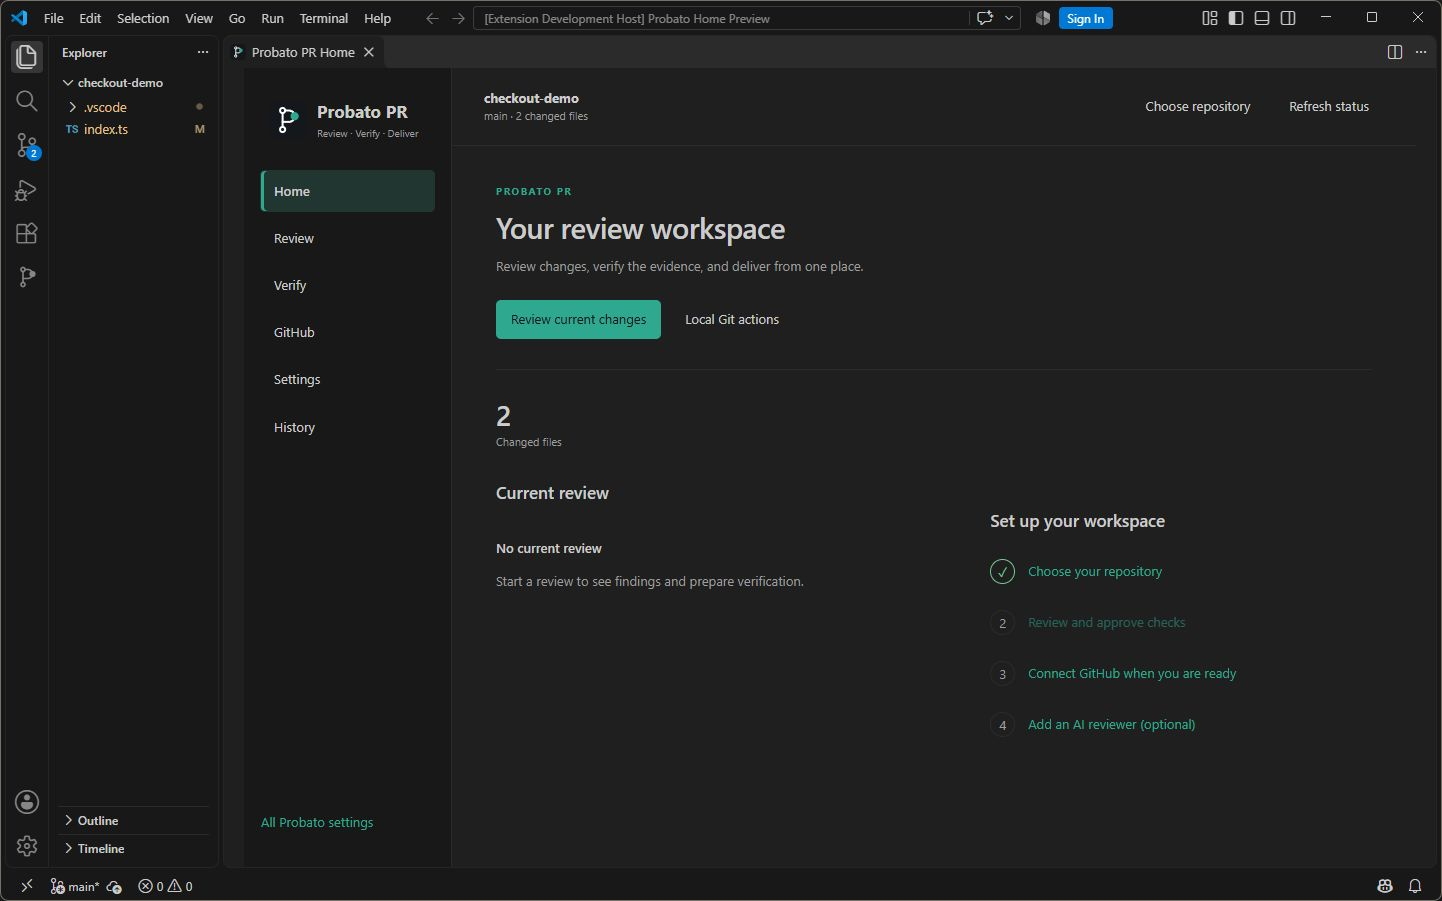
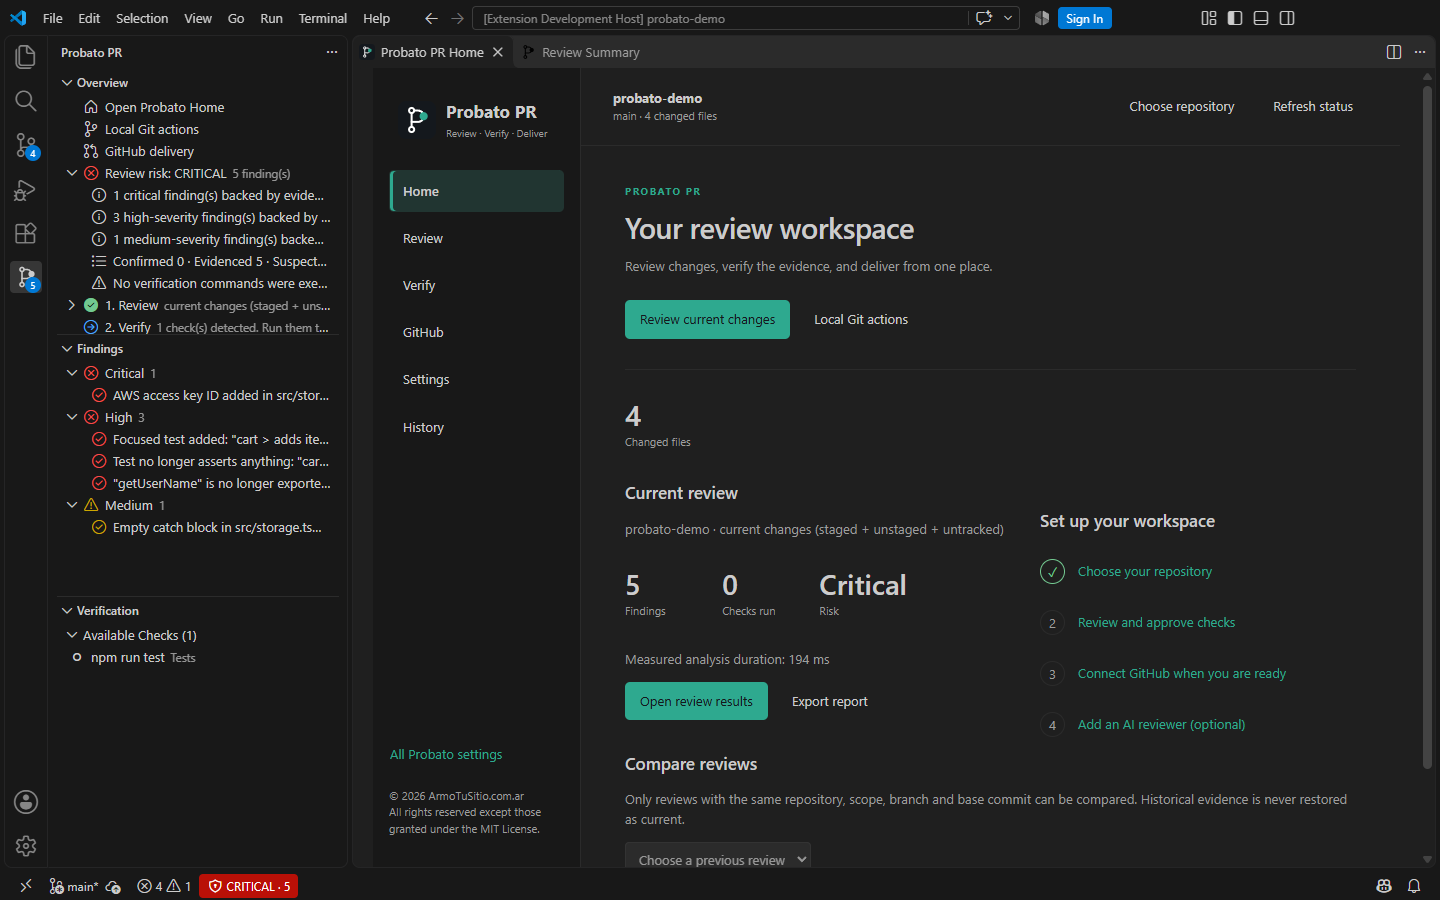
docs(readme): regenerate screenshots automatically from the real extension
Add `pnpm run screenshots`: launches VS Code (Extension Development Host) on the
demo repository, runs a review and captures Home, Review Summary and Settings in
dark and light themes through the DevTools protocol into media/screenshots/.
`probatoPR.openHome` accepts an optional allowlisted section for automation.

diff --git a/test/integration/screenshots.ts b/test/integration/screenshots.ts
@@ -1,0 +1,155 @@
+// Regenerates the README screenshots from the real extension: launches VS Code (Extension Development Host) on the
+// demonstration repository from scripts/create-demo-repo.mjs, lets screenshot-driver.ts put the extension into
+// each state, and captures the workbench through the Chromium DevTools protocol into media/screenshots/.
+// Nothing is published and no account is connected. Usage: pnpm run screenshots
+import { execFileSync } from 'node:child_process';
+import { existsSync, mkdirSync, mkdtempSync, readdirSync, rmSync, writeFileSync } from 'node:fs';
+import { createServer } from 'node:net';
+import { tmpdir } from 'node:os';
+import * as path from 'node:path';
+import { runTests } from '@vscode/test-electron';
+
+const ROOT = path.resolve(__dirname, '../..');
+const OUTPUT = path.join(ROOT, 'media', 'screenshots');
+const VIEWPORT = { width: 1440, height: 900, deviceScaleFactor: 1, mobile: false } as const;
+
+const delay = (ms: number): Promise<void> => new Promise((resolve) => { setTimeout(resolve, ms); });
+
+function freePort(): Promise<number> {
+  return new Promise((resolve, reject) => {
+    const server = createServer();
+    server.once('error', reject);
+    server.listen(0, '127.0.0.1', () => {
+      const address = server.address();
+      server.close(() => { if (address && typeof address === 'object') resolve(address.port); else reject(new Error('no port assigned')); });
+    });
+  });
+}
+
+/** Minimal DevTools protocol client over the WebSocket of the workbench page. */
+class DevTools {
+  private nextId = 0;
+  private readonly pending = new Map<number, { resolve(value: unknown): void; reject(error: Error): void }>();
+
+  private constructor(private readonly socket: WebSocket) {
+    socket.addEventListener('message', (event) => {
+      const message = JSON.parse(String(event.data)) as { id?: number; result?: unknown; error?: { message: string } };
+      const waiter = message.id === undefined ? undefined : this.pending.get(message.id);
+      if (!waiter || message.id === undefined) return;
+      this.pending.delete(message.id);
+      if (message.error) waiter.reject(new Error(`DevTools: ${message.error.message}`)); else waiter.resolve(message.result);
+    });
+  }
+
+  static async connect(port: number): Promise<DevTools> {
+    const response = await fetch(`http://127.0.0.1:${port}/json/list`, { signal: AbortSignal.timeout(10_000) });
+    const targets = await response.json() as { type: string; url: string; webSocketDebuggerUrl: string }[];
+    const workbench = targets.find((target) => target.type === 'page' && target.url.includes('workbench'));
+    if (!workbench) throw new Error(`workbench page not found among ${targets.length} DevTools targets`);
+    const socket = new WebSocket(workbench.webSocketDebuggerUrl);
+    await new Promise<void>((resolve, reject) => {
+      socket.addEventListener('open', () => { resolve(); }, { once: true });
+      socket.addEventListener('error', () => { reject(new Error('DevTools WebSocket failed to open')); }, { once: true });
+    });
+    return new DevTools(socket);
+  }
+
+  send(method: string, params: Record<string, unknown> = {}): Promise<unknown> {
+    const id = ++this.nextId;
+    return new Promise((resolve, reject) => {
+      this.pending.set(id, { resolve, reject });
+      this.socket.send(JSON.stringify({ id, method, params }));
+    });
+  }
+
+  close(): void { this.socket.close(); }
+}
+
+/** Captures every shot the driver marks ready until `finished` settles. */
+async function captureLoop(handshake: string, port: number, finished: { done: boolean }): Promise<string[]> {
+  const captured: string[] = [];
+  let devTools: DevTools | undefined;
+  try {
+    while (!finished.done) {
+      const ready = readdirSync(handshake).filter((file) => file.endsWith('.ready')).map((file) => file.slice(0, -'.ready'.length))
+        .filter((name) => !existsSync(path.join(handshake, `${name}.done`)));
+      for (const name of ready) {
+        if (!devTools) {
+          devTools = await DevTools.connect(port);
+          await devTools.send('Emulation.setDeviceMetricsOverride', VIEWPORT);
+          await delay(1_500);
+        }
+        const { data } = await devTools.send('Page.captureScreenshot', { format: 'png' }) as { data: string };
+        writeFileSync(path.join(OUTPUT, `${name}.png`), Buffer.from(data, 'base64'));
+        captured.push(name);
+        console.log(`captured media/screenshots/${name}.png`);
+        writeFileSync(path.join(handshake, `${name}.done`), '');
+      }
+      await delay(200);
+    }
+  } finally {
+    devTools?.close();
+  }
+  return captured;
+}
+
+async function main(): Promise<void> {
+  // Inherited when launched from a VS Code integrated terminal or extension host; it would make Code.exe start as plain Node.
+  delete process.env.ELECTRON_RUN_AS_NODE;
+  const sandbox = mkdtempSync(path.join(tmpdir(), 'probato-shots-'));
+  try {
+    const repository = path.join(sandbox, 'probato-demo');
+    execFileSync(process.execPath, [path.join(ROOT, 'scripts', 'create-demo-repo.mjs'), repository], { stdio: 'ignore' });
+    const handshake = path.join(sandbox, 'handshake');
+    const userSettings = path.join(sandbox, 'user-data', 'User');
+    mkdirSync(handshake);
+    mkdirSync(userSettings, { recursive: true });
+    mkdirSync(OUTPUT, { recursive: true });
+    writeFileSync(path.join(userSettings, 'settings.json'), JSON.stringify({
+      'workbench.colorTheme': 'Default Dark Modern',
+      'workbench.startupEditor': 'none',
+      'workbench.tips.enabled': false,
+      'workbench.secondarySideBar.defaultVisibility': 'hidden',
+      'chat.commandCenter.enabled': false,
+      'telemetry.telemetryLevel': 'off',
+      'update.mode': 'none',
+      'extensions.ignoreRecommendations': true,
+      'git.openRepositoryInParentFolders': 'never',
+      'window.restoreWindows': 'none',
+    }));
+    const port = await freePort();
+    const finished = { done: false };
+    const capture = captureLoop(handshake, port, finished);
+    // Observed below with `await capture`; this only prevents an early unhandled-rejection crash meanwhile.
+    capture.catch(() => undefined);
+    try {
+      await runTests({
+        ...(process.env.VSCODE_EXECUTABLE ? { vscodeExecutablePath: process.env.VSCODE_EXECUTABLE } : { version: process.env.VSCODE_VERSION ?? 'stable' }),
+        extensionDevelopmentPath: ROOT,
+        extensionTestsPath: path.resolve(__dirname, 'screenshot-driver.js'),
+        launchArgs: [
+          repository,
+          '--disable-extensions',
+          '--disable-workspace-trust',
+          '--locale=en',
+          `--remote-debugging-port=${port}`,
+          `--user-data-dir=${path.join(sandbox, 'user-data')}`,
+          `--extensions-dir=${path.join(sandbox, 'extensions')}`,
+        ],
+        extensionTestsEnv: { PROBATO_SHOTS_HANDSHAKE: handshake, GIT_CEILING_DIRECTORIES: sandbox },
+      });
+    } finally {
+      finished.done = true;
+    }
+    const captured = await capture;
+    if (!captured.length) throw new Error('no screenshot was captured');
+  } finally {
+    // VS Code child processes can hold handles briefly after exit (EPERM/EBUSY on Windows).
+    rmSync(sandbox, { recursive: true, force: true, maxRetries: 10, retryDelay: 500 });
+  }
+}
+
+main().catch((error: unknown) => {
+  console.error(error);
+  process.exit(1);
+});

diff --git a/test/integration/screenshot-driver.ts b/test/integration/screenshot-driver.ts
@@ -1,0 +1,59 @@
+// Runs inside the Extension Development Host launched by screenshots.ts. It puts the real extension into each
+// state shown in the README and hands over to the launcher, which captures the window through the DevTools protocol.
+// Handshake per shot: this side writes `<name>.ready`, the launcher captures and writes `<name>.done`.
+import { existsSync, writeFileSync } from 'node:fs';
+import * as path from 'node:path';
+import * as vscode from 'vscode';
+
+interface Shot {
+  readonly name: string;
+  prepare(): Thenable<unknown>;
+}
+
+const THEMES = [
+  { suffix: 'dark', theme: 'Default Dark Modern' },
+  { suffix: 'light', theme: 'Default Light Modern' },
+] as const;
+
+const delay = (ms: number): Promise<void> => new Promise((resolve) => { setTimeout(resolve, ms); });
+
+function requiredEnv(name: string): string {
+  const value = process.env[name];
+  if (!value) throw new Error(`${name} is not set; run this driver through out/integration/screenshots.js`);
+  return value;
+}
+
+async function handOver(directory: string, name: string): Promise<void> {
+  await vscode.commands.executeCommand('notifications.clearAll');
+  // Webviews render asynchronously after their state message; give them time to settle.
+  await delay(2_500);
+  const done = path.join(directory, `${name}.done`);
+  writeFileSync(path.join(directory, `${name}.ready`), '');
+  const deadline = Date.now() + 60_000;
+  while (!existsSync(done)) {
+    if (Date.now() > deadline) throw new Error(`the launcher did not capture ${name} within 60 s`);
+    await delay(200);
+  }
+}
+
+export async function run(): Promise<void> {
+  const directory = requiredEnv('PROBATO_SHOTS_HANDSHAKE');
+  const extension = vscode.extensions.getExtension('armotusitio.probato-pr');
+  if (!extension) throw new Error('armotusitio.probato-pr is not loaded in the host');
+  await extension.activate();
+  await vscode.commands.executeCommand('workbench.view.extension.probatoPR');
+  await vscode.commands.executeCommand('probatoPR.reviewCurrentChanges');
+
+  const shots: readonly Shot[] = [
+    { name: 'home', prepare: () => vscode.commands.executeCommand('probatoPR.openHome', 'home') },
+    { name: 'review-summary', prepare: () => vscode.commands.executeCommand('probatoPR.showResults') },
+    { name: 'settings', prepare: () => vscode.commands.executeCommand('probatoPR.openHome', 'settings') },
+  ];
+  for (const { suffix, theme } of THEMES) {
+    await vscode.workspace.getConfiguration('workbench').update('colorTheme', theme, vscode.ConfigurationTarget.Global);
+    for (const shot of shots) {
+      await shot.prepare();
+      await handOver(directory, `${shot.name}-${suffix}`);
+    }
+  }
+}

diff --git a/src/extension.ts b/src/extension.ts
@@ -20,7 +20,7 @@ import { NodeProcessRunner } from './infrastructure/process-runner';
 import { FindingCodeActions, FindingDiagnostics } from './ui/diagnostics';
 import { EVIDENCE_SCHEME, REPORT_SCHEME, ReviewDocuments } from './ui/documents';
 import { createFindingsView } from './ui/findings-tree';
-import { HomePanel, HOME_VIEW_TYPE } from './ui/home-panel';
+import { HomePanel, HOME_VIEW_TYPE, isSection } from './ui/home-panel';
 import { parseHomeSetting } from './extension/home-settings';
 import { OverviewTreeProvider } from './ui/overview-tree';
 import { ReviewStatusBar } from './ui/status-bar';
@@ -186,7 +186,8 @@ export async function activate(context: vscode.ExtensionContext): Promise<Probat
   };
   context.subscriptions.push(home, overviewView, overviewProvider,
     vscode.window.registerWebviewPanelSerializer(HOME_VIEW_TYPE, home),
-    vscode.commands.registerCommand('probatoPR.openHome', () => { home.show(); }),
+    // Optional section argument (allowlisted) lets automation open a specific Home section, e.g. 'settings'.
+    vscode.commands.registerCommand('probatoPR.openHome', (section?: unknown) => { home.show(isSection(section) ? section : 'home'); }),
     overviewView.onDidChangeVisibility(openHomeOnFirstVisit),
   );
   openHomeOnFirstVisit();

diff --git a/src/ui/home-panel.ts b/src/ui/home-panel.ts
@@ -155,7 +155,7 @@ function localizedRisk(value: string): string {
   return riskLabel(value === 'critical' || value === 'high' || value === 'medium' || value === 'low' ? value : 'unknown');
 }
 
-function isSection(value: unknown): value is HomeSection {
+export function isSection(value: unknown): value is HomeSection {
   return typeof value === 'string' && ['home', 'review', 'verify', 'github', 'settings', 'history'].includes(value);
 }
 

diff --git a/README.md b/README.md
@@ -96,15 +96,22 @@ Each scope shows its own values; workspace preferences can override user prefere
 
 ![Probato PR Settings in a dark theme: review and verification preferences](media/screenshots/settings-dark.png)
 
+The Review Summary shows the risk, the findings by severity and the next step: verify, then deliver.
+
+![Probato PR Review Summary in a dark theme: critical risk, findings by severity and the review, verify and deliver steps](media/screenshots/review-summary-dark.png)
+
 The same control center adapts to light themes, including navigation, text, controls and the brand accent.
 
 ![Probato PR Home in a light theme](media/screenshots/home-light.png)
 
+![Probato PR Review Summary in a light theme](media/screenshots/review-summary-light.png)
+
 ![Probato PR Settings in a light theme](media/screenshots/settings-light.png)
 
-*Real screenshots captured with version 0.4.0 in English, using a local demonstration repository; later versions
-may differ in small details. No GitHub account is connected and no code is published during these captures.
-Probato PR also includes Spanish translations.*
+*Real screenshots of version 1.0.0 in English, generated automatically with `pnpm run screenshots`: it opens
+VS Code with the extension on the demonstration repository from `scripts/create-demo-repo.mjs`, runs a review and
+captures each screen. No GitHub account is connected and no code is published. Probato PR also includes Spanish
+translations.*
 
 ## Quick start
 

diff --git a/docs/ENTERPRISE_AAAAA_UPGRADE_CHECKLIST.md b/docs/ENTERPRISE_AAAAA_UPGRADE_CHECKLIST.md
@@ -59,4 +59,4 @@ States: `TODO` · `IN_PROGRESS` · `PASS` · `WARN` · `BLOCKED`. Evidence refer
 | VI.1 | Distinct evidence/attribution states in Home/Summary; PASS/NEUTRAL/SKIPPED checks (P2-05) | PASS for CI checks — GitHub Delivery maps each check to passed/neutral/skipped/pending/failed (fail-closed for unknown states) and to required/informative/unknown from rulesets and branch protection; missing required checks become blockers (`github-delivery.test.ts`). Home/Summary keep their existing per-finding status and attribution labels |
 | VI.2 | WCAG 2.2 AA audit on packaged VSIX | PENDING — manual acceptance on the installed 1.0.0 VSIX, owned by the maintainer |
 | VI.3 | Extension Host on Windows/macOS; Remote SSH/WSL/Dev Containers | PENDING — manual acceptance on the installed 1.0.0 VSIX, owned by the maintainer (only Linux runs in CI, P2-02) |
-| VI.4 | Final screenshots and release documents | PARTIAL — README, CHANGELOG and readiness updated for 1.0.0; screenshots are still the 0.4.0 captures and labeled as such |
+| VI.4 | Final screenshots and release documents | DONE — README, CHANGELOG and readiness updated for 1.0.0; screenshots regenerated from 1.0.0 by `pnpm run screenshots` (real Extension Development Host, demo repository) |

diff --git a/PRODUCT_RELEASE_READINESS.md b/PRODUCT_RELEASE_READINESS.md
@@ -28,7 +28,7 @@ counted as PASS.
 | Optional isolated execution backend | WARN | Not implemented; the runner is documented as not a sandbox (checklist IV.3) |
 | Required vs informative CI checks; neutral/skipped never shown as pass | PASS | `github-delivery.test.ts` (checklist VI.1) |
 | Per-module coverage ≥85% lines / ≥80% branches | WARN | `git` and `mutation` branch coverage below 80% |
-| Accessibility audit (WCAG 2.2 AA) on packaged VSIX, final screenshots | BLOCKED | Manual acceptance on the installed VSIX, owned by the maintainer; screenshots are the labeled 0.4.0 captures |
+| Accessibility audit (WCAG 2.2 AA) on packaged VSIX, final screenshots | BLOCKED | Manual acceptance on the installed VSIX, owned by the maintainer; screenshots are regenerated automatically from 1.0.0 (`pnpm run screenshots`) |
 | Performance P50/P95 and peak memory on real repositories | PASS (one machine) | `pnpm run perf:real`, 60 runs on Windows 11 (`docs/evidence/`, checklist V.5); other OSes not measured |
 
 ## Previous acceptance record — 0.5.0 (2026-11-03)

diff --git a/docs/RELEASE.md b/docs/RELEASE.md
@@ -80,6 +80,12 @@ or comparability changes. Record base/head commits, tool and dependency versions
 reports. Ordinary checks must continue without Stryker installed. A fixture skipped for a missing tool is not E2E
 acceptance. Preserve all existing README screenshots when updating release documentation.
 
+## README screenshots
+
+Regenerate them for every release with UI changes: `pnpm run screenshots`. It launches VS Code with the extension
+on the demonstration repository, runs a review and writes `media/screenshots/{home,review-summary,settings}-{dark,light}.png`
+through the DevTools protocol. Review the images before committing them.
+
 ## Rollback / withdrawal
 
 - The Marketplace does not allow re-publishing an existing version. Fix forward with a patch version (`0.1.1`).

diff --git a/CHANGELOG.md b/CHANGELOG.md
@@ -23,6 +23,8 @@ format of 0.6.0 are unchanged; everything below is additive.
 - Differential gate decisions are also recorded in the JSON (`qualityGate`) and SARIF (`runs[0].properties.qualityGate`)
   reports. Additive optional field; `absolute` reports are unchanged.
 - SARIF output is validated in the test suite against the official OASIS SARIF 2.1.0 schema.
+- `pnpm run screenshots` regenerates the README screenshots from the real extension (Home, Review Summary and
+  Settings, dark and light themes). `Probato PR: Open Probato Home` accepts an optional section for automation.
 
 ### Changed
 
